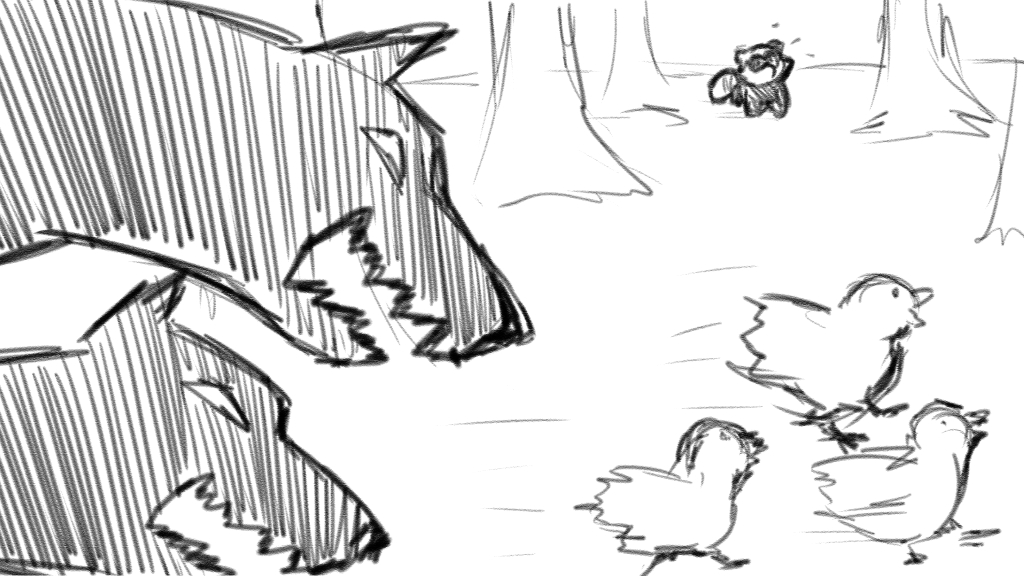
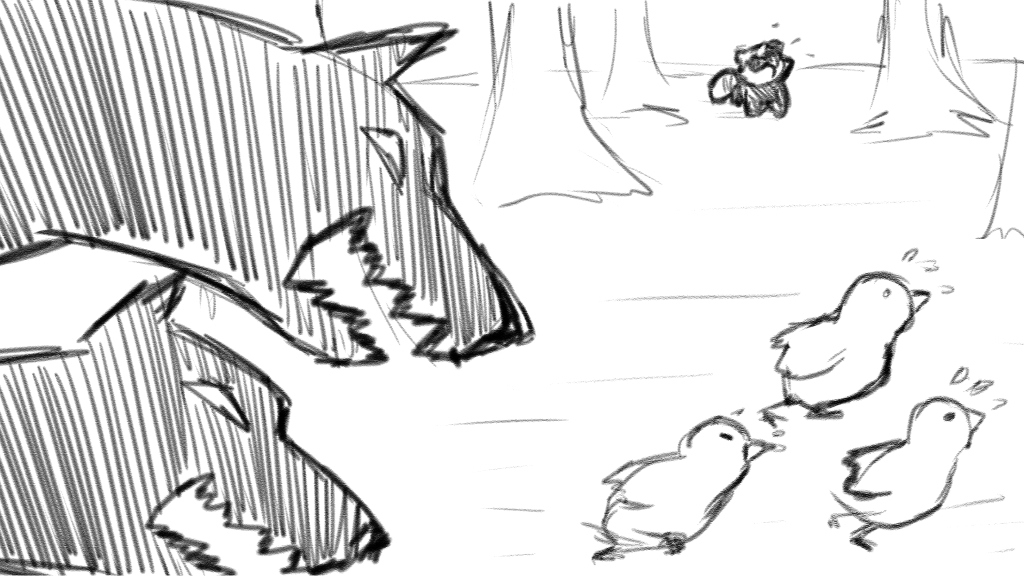
add all drawings

Changed region(s): [[0.5625, 0.4375, 1.0, 1.0], [0.7188, 0.0625, 0.75, 0.0938], [0.6562, 0.5625, 0.6875, 0.5938]]

diff --git a/index.html b/index.html
@@ -24,28 +24,28 @@
     <section class="game">
         <div class="storyContainer">
             <div class="story">
-                <img class="storyImg" src="img/story/intro1.jpg" alt="img">
+                <img class="storyImg" src="./img/story/intro1.jpg" alt="img">
                 <div class="choiceSection"></div>
             </div>
         </div>
         <div class="sticks"></div>
         <div class="textBox clickable">
             <p>Qiqi le tanuki.</p>
-            <img src="img/other/textboxI.png" alt="textboxI">
+            <img src="./img/other/textboxI.png" alt="textboxI">
         </div>
         
         
-        <img class="leaf leafR" src="img/other/leafLeft.png" alt="leaf">
-        <img class="leaf leafL" src="img/other/leafRight.png" alt="leaf">
+        <img class="leaf leafR" src="./img/other/leafLeft.png" alt="leaf">
+        <img class="leaf leafL" src="./img/other/leafRight.png" alt="leaf">
         
     </section>
-    <img class="audioIcon" src="img/other/musicnote.svg"></img>
+    <img class="audioIcon" src="./img/other/musicnote.svg"></img>
 
     <div class="bgDots1"></div>
     <div class="bgDots2"></div>
     
     
-    <audio class="storyMusic" src="" loop></audio>
+    <audio class="storyMusic" src="./music/intro.mp3" loop></audio>
 
     <script type="text/javascript" src="scripts/script.js"></script>
 

diff --git a/scripts/script.js b/scripts/script.js
@@ -107,6 +107,7 @@ function musicAndPicture(){
 //lorsqu'on clique sur le play de l'écran d'accueil
 home.button.addEventListener('click', function(){
     home.screen.classList.add('hidden');
+    storyUi.music.play();    
 })
 
 //lorsqu'on clique sur la boite de texte, on avance dans le récit

diff --git a/css/home.css b/css/home.css
@@ -51,6 +51,7 @@
 .home_title {
     font-family: "PoorStory";
     font-size: 50px;
+    color:#b8854c;
     transition: opacity 0.2s ease;    
 }
 
